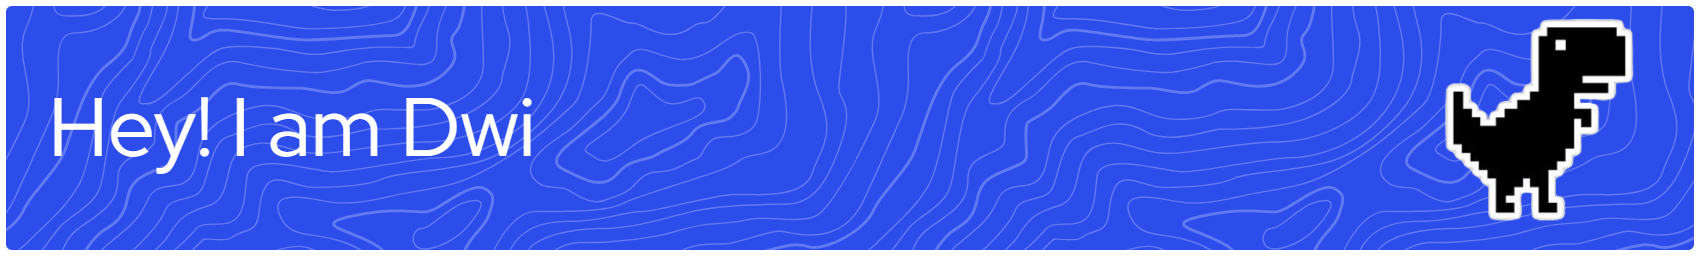
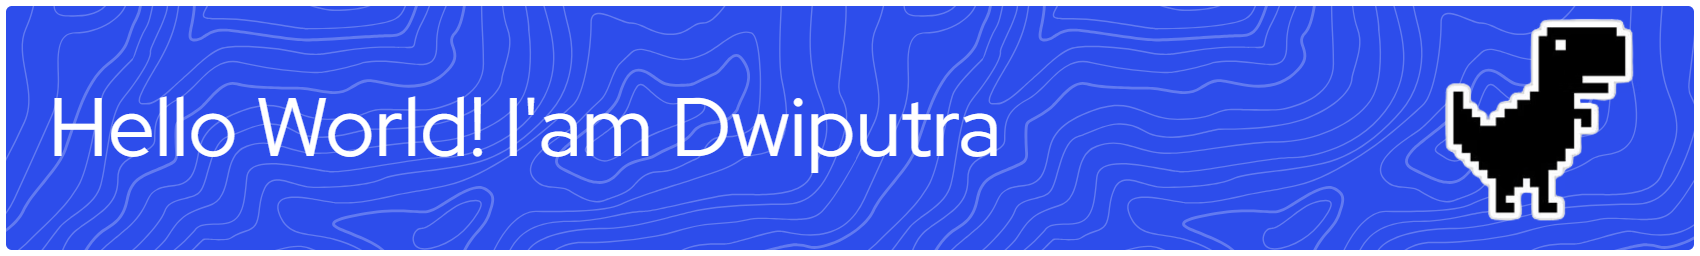
Change

Changed region(s): [[0.0935, 0.375, 0.5924, 0.6875], [0.4676, 0.375, 0.4988, 0.4062]]

diff --git a/README.md b/README.md
@@ -1,6 +1,4 @@
-## **Hello World!!!** I'm Kavhya Rachman Dwiputra 👋
 ![Header](img/github-header-banner.png)
-
 <!--
 **kavhyarachmandwiputra-debug/kavhyarachmandwiputra-debug** is a ✨ _special_ ✨ repository because its `README.md` (this file) appears on your GitHub profile.
 
@@ -15,3 +13,10 @@ Here are some ideas to get you started:
 - 😄 Pronouns: ...
 - ⚡ Fun fact: ...
 -->
+### 💫About Me
+#### Hello World! I'm Kavhya Rachman Dwiputra
+##### Socials :
+![](https://img.shields.io/badge/Instagram-E4405F?style=for-the-badge&logo=instagram&logoColor=white)
+##### Skills :
+
+[![My Skills](https://skillicons.dev/icons?i=js,html,java,css,py,kotlin&perline=3)](https://skillicons.dev)
